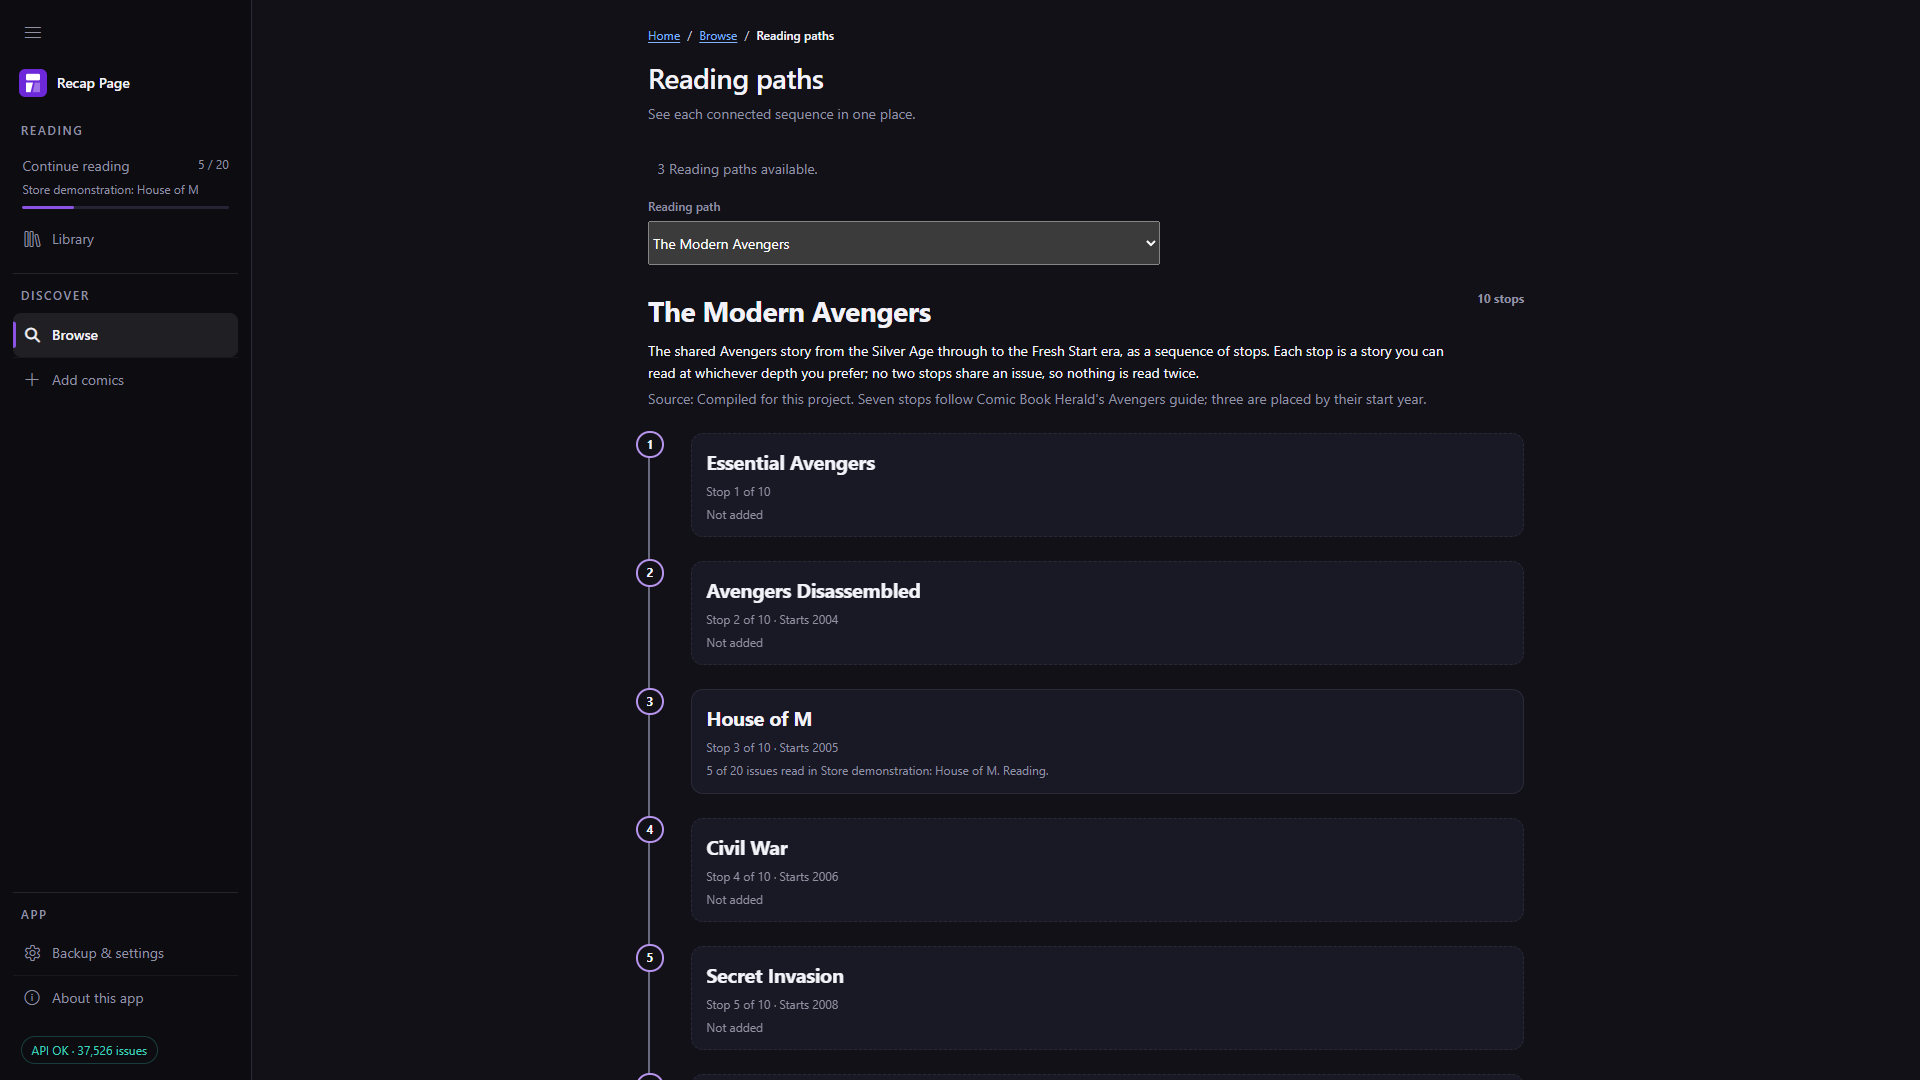
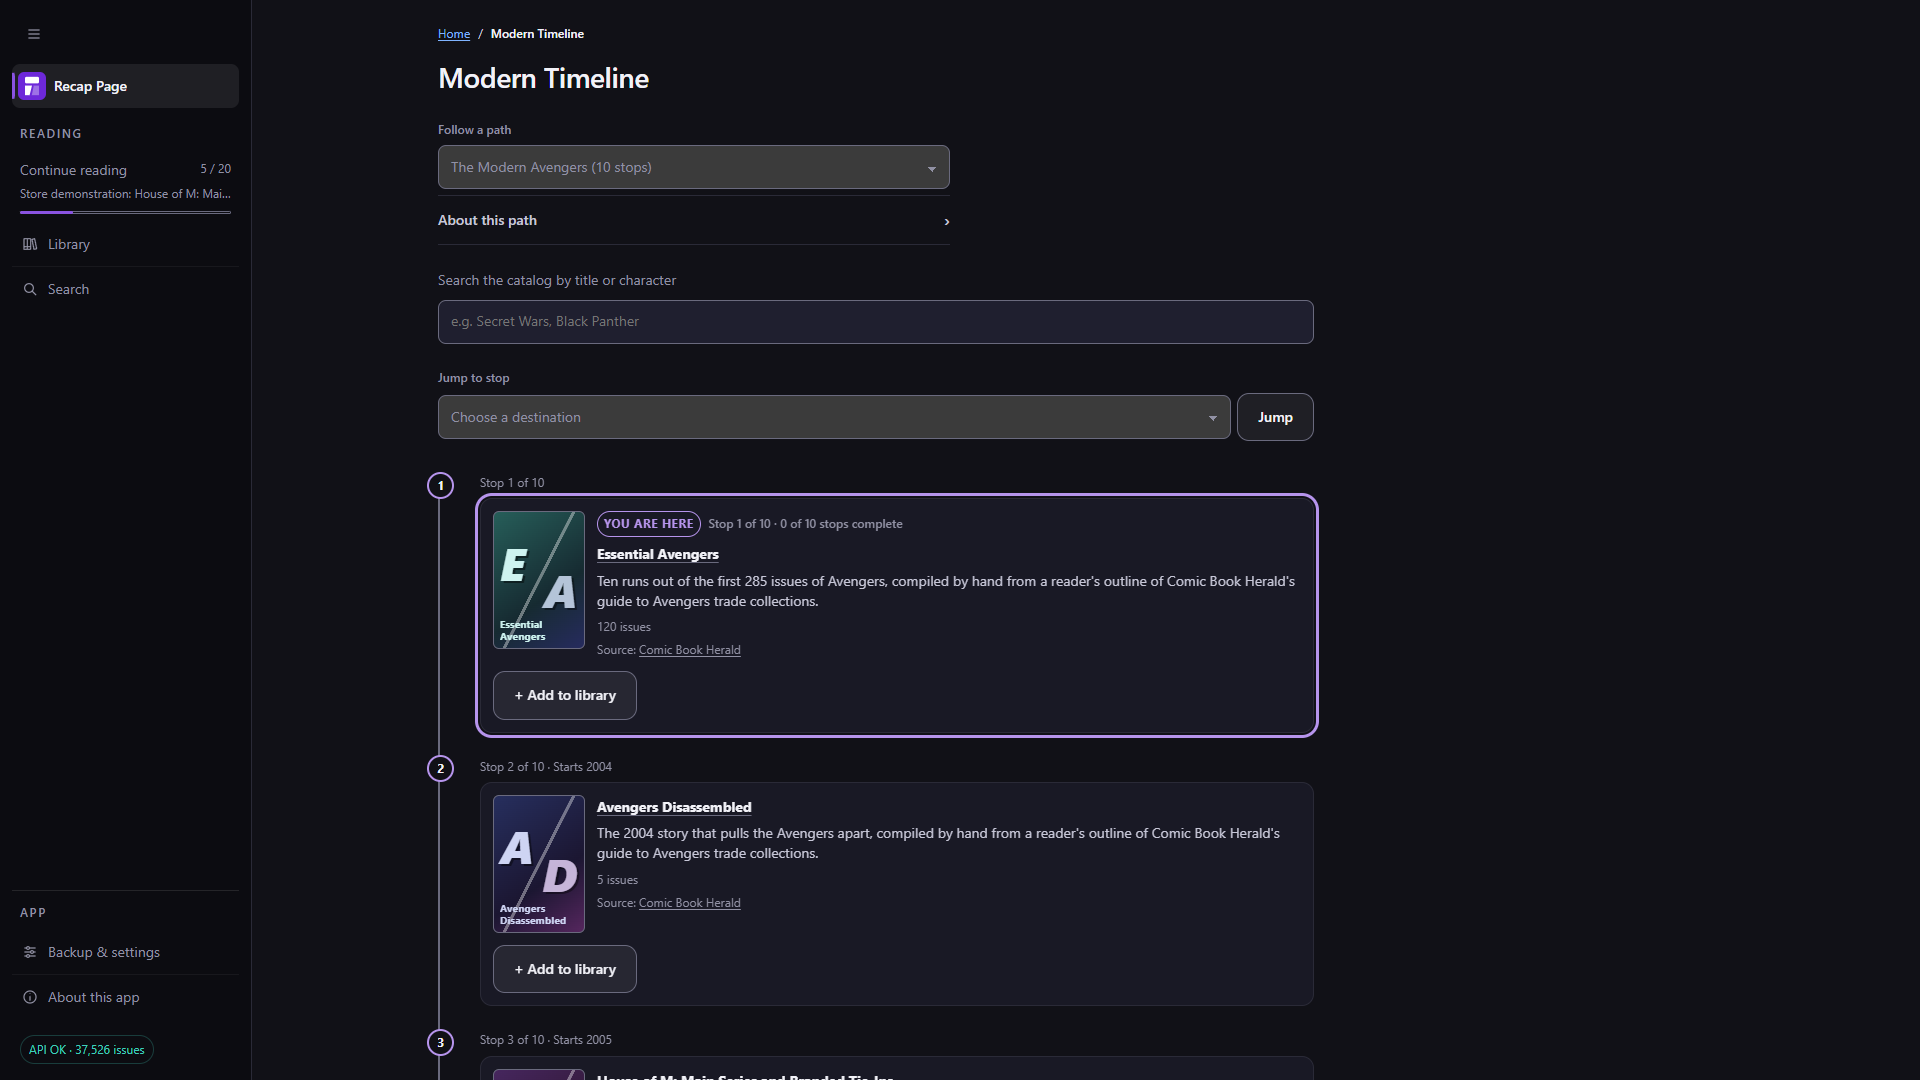
Refresh the Store listing for Search, Home's category cards and Done (#911)
The Store packet still described the app as it was before #907, #913 and #922. Browse is no
longer a page, Add comics is named Search, Reading Paths are followed on Modern Timeline, Home's
last category card is Young readers, and the reading screen's button has said Done since the
owner's choice on 2026-10-07. The listing, its screenshots and the certification notes sent a
Microsoft tester to pages that are gone.

All five screenshots are recaptured with npm run store:assets, and the tile comes out byte for byte
the same. 01 shows the first-run Start with Modern Timeline, 02 shows Storylines, which the owner
chose, and 03 shows The Modern Avengers followed on Modern Timeline. Their captions say so. The long
description walks from Home through Modern Timeline and chooses Done, and the feature list keeps
Reading Paths, followed on Modern Timeline. The certification steps send testers from Home to
Modern Timeline to preview House of M, and to Search for Find a series and, under More ways to add,
Browse a creator, which is that control's own label. Each step was walked in Edge on the bundled
indexes with no request leaving the machine. The notes are re-dated, as they ask.

The packet's boundary sentence said everything above Future Store updates records the first
submission. The listing copy above it had already been rewritten in place twice since the
2026-09-01 authorization, and the check requires the screenshot table to match the committed images
[…]

diff --git a/test/store-submission.test.js b/test/store-submission.test.js
@@ -18,9 +18,13 @@ test('the packet separates the first submission from automated future updates', 
   const first = packet.slice(0, packet.indexOf('## Future Store updates'));
   const future = packet.slice(packet.indexOf('## Future Store updates'));
   const futureOperation = future.slice(future.indexOf('After that first free version'));
+  const boundary = future.slice(0, future.indexOf('After that first free version')).replace(/\s+/g, ' ');
   assert.match(first, /manual publishing hold/);
   assert.match(first, /Do not upload or submit a package that differs/);
   assert.match(first, /Do not publish without a separate explicit direction/);
+  assert.match(boundary, /the certification notes are kept current for the next submission/);
+  assert.match(boundary, /Everything else above it records the first submission/);
+  assert.match(boundary, /preserved at commit `8e4a773d`/);
   assert.match(future, /explicit default-branch dispatch/);
   assert.match(future, /Publishing a GitHub or Android release does not start it/);
   assert.match(future, /protected `microsoft-store-production`\s+environment/);

diff --git a/test/workflow-introduction.test.js b/test/workflow-introduction.test.js
@@ -24,13 +24,8 @@ test('the introduction walks through a real cross-series transition with synthet
     assert.match(copy, /first six comics/);
     assert.ok(copy.includes(guide.items[6].title), `${name} must identify the next unread issue`);
     assert.ok(copy.includes(guide.items[7].title), `${name} must show the cross-series next issue`);
-    // Done is the reading screen's own label (UX-25, #830). The Store listing changes only with a
-    // Store submission, so #911 brings it from "Done, next" to "Done" and makes this one check again.
-    if (name === 'Store listing') assert.match(copy, /Done, next/);
-    else {
-      assert.match(copy, /choose \**Done\**\s*\./, `${name} must name the Done button`);
-      assert.doesNotMatch(copy, /Done, next/, `${name} must use Done's own label`);
-    }
+    assert.match(copy, /choose \**Done\**\s*\./, `${name} must name the Done button`);
+    assert.doesNotMatch(copy, /Done, next/, `${name} must use Done's own label`);
     assert.match(copy, /resume/i);
   }
 });

diff --git a/docs/MICROSOFT_STORE_SUBMISSION.md b/docs/MICROSOFT_STORE_SUBMISSION.md
@@ -159,19 +159,21 @@ It is not a native phone app. No automatic device sync or offline comic reading.
 
 A reading session, using made-up progress rather than someone's reading history:
 
-1. In Browse, add Civil War: Avengers and Aftermath Reading Order, compiled from Comic Book Herald's guide:
+1. On Home, open Modern Timeline and add Civil War: Avengers and Aftermath Reading Order,
+   compiled from Comic Book Herald's guide:
    https://www.comicbookherald.com/where-do-i-start-with-avengers-trade-collections/
 2. Imagine the first six comics are marked read. Civil War (2006) #7 is the next unread issue.
 3. Choose Read. The official reader opens in a separate tab when a link is available. Otherwise the
    new tab looks up the link and falls back to an official issue page, not guaranteed access.
-4. Return to Recap Page and choose Done, next yourself. New Avengers (2004) #21 becomes next;
-   reading is not detected automatically.
+4. Return to Recap Page and choose Done. New Avengers (2004) #21 becomes next; reading is not
+   detected automatically.
 5. Stop here, then reopen this Reading List in the same browser profile to resume at that unread comic.
 
 Read markers are shared for the same issue across overlapping Reading Lists; each list keeps its
-own order. Browse Reading Paths, add private notes, or track custom issues without changing that
-reading loop. Your progress stays in your browser profile. There is no account, advertising,
-analytics, or telemetry. Reading requires your own Marvel Unlimited subscription.
+own order. Follow a Reading Path on Modern Timeline, add private notes, or track custom issues
+without changing that reading loop. Your progress stays in your browser profile. There is no
+account, advertising, analytics, or telemetry. Reading requires your own Marvel Unlimited
+subscription.
 
 Recap Page contains no comic pages. Cover art is optional and loads directly from Marvel image
 hosts. Search and issue details use a community metadata service. An optional manual lookup can open
@@ -186,7 +188,7 @@ or Disney. Marvel names and marks belong to their respective owners.
 ### Feature fields
 
 1. Curated event, era, character, and continuity reading orders
-2. Reading Paths across connected lists
+2. Reading Paths across connected lists, followed on Modern Timeline
 3. Clear next issue and completion progress
 4. Private read markers, notes, availability overrides, and custom entries
 5. JSON backup and restore
@@ -279,7 +281,7 @@ owner-only action and may add certification time.
 
 Paste this after updating the date if submission occurs later:
 
-> Prepared 2026-09-01.
+> Prepared 2026-10-27.
 >
 > Recap Page is a packaged classic desktop app. Launching it starts the bundled
 > architecture-matched official Node runtime as a hidden local server bound only to
@@ -292,9 +294,10 @@ Paste this after updating the date if submission occurs later:
 > 1. Launch Recap Page from Start.
 > 2. Confirm the default browser opens `http://127.0.0.1:8787/`. A successful launch does not leave
 >    a console open.
-> 3. Open Browse and preview House of M.
-> 4. Under Add comics, find creator Jonathan Hickman and series House of M. These searches use
->    indexes bundled inside the package.
+> 3. On Home, open Modern Timeline, search for House of M, and select its title to preview it.
+> 4. Under Search, use Find a series to find House of M, then open More ways to add and use
+>    Browse a creator to find Jonathan Hickman. These searches use indexes bundled inside the
+>    package.
 > 5. Add a curated Reading List, mark an issue read, and optionally add a note.
 > 6. Close the browser and launch Recap Page again. The same browser profile retains that state.
 > 7. The Read action opens Marvel Unlimited when a direct reader link is known, or the official
@@ -340,9 +343,9 @@ path, email, or account data entered the captures.
 
 | File | Caption for Partner Center |
 |---|---|
-| `01-home-discovery.png` | Home presents clear ways to browse curated Reading Lists and connected Reading Paths. |
-| `02-browse-reading-lists.png` | Browse organizes Reading Lists by timeline, story, character, and other guided routes. |
-| `03-reading-paths.png` | Reading Paths show connected stories in sequence and carry sample progress from matching saved lists. |
+| `01-home-discovery.png` | Home offers a first step on Modern Timeline and category cards for Storylines, Character spotlights, Young readers, and more. |
+| `02-browse-reading-lists.png` | Storylines, reached from Home's category cards, lists story-arc Reading Lists with filters, era groups, and source credits. |
+| `03-reading-paths.png` | Modern Timeline follows a Reading Path stop by stop and marks where you are. |
 | `04-reading-progress.png` | A demonstration Reading List keeps the next issue, issue order, and local completion progress together. |
 | `05-about-privacy.png` | About explains local storage, direct network requests, source credits, and the unofficial-project boundary. |
 | `store-tile-300.png` | Exact 300 x 300 Store tile derived from the existing purple panels app icon. |
@@ -355,11 +358,11 @@ Reviewed asset measurements:
 
 | File | Dimensions | Bytes | SHA-256 |
 |---|---:|---:|---|
[11 lines of base64/hex data omitted]
 
 Omit trailers, 16:9 Super hero art, game poster art, box art, Xbox art, and Holographic art. The
@@ -419,9 +422,13 @@ unofficial, no-comics, and own-subscription disclosures are present.
 
 ## Future Store updates
 
-Everything above this heading records the first submission. Its package version, reviewed hash,
-manual upload, certification submission, and manual publishing hold remain the factual first-release
-procedure. They do not authorize or describe a later update.
+Above this heading, the listing's descriptions and feature fields, the screenshots and their
+captions, and the certification notes are kept current for the next submission. Everything else
+above it records the first submission. Its package version, reviewed hash, manual upload,
+certification submission, and manual publishing hold remain the factual first-release procedure.
+They do not authorize or describe a later update. The packet as it stood on 2026-09-01, when the
+owner authorized the replacement submission, is preserved at commit `8e4a773d`, copy and
+screenshots included.
 
 After that first free version is live, an explicit default-branch dispatch may start the separate
 Microsoft Store release workflow. Publishing a GitHub or Android release does not start it.

diff --git a/docs/MICROSOFT_STORE.md b/docs/MICROSOFT_STORE.md
@@ -327,10 +327,10 @@ $env:MRT_PUPPETEER='C:\path\to\scratch\node_modules\puppeteer-core\lib\puppeteer
 The functionality scenario starts the package twice across the pre-ready window, requires one
 settled server, proves a later warm activation reuses it, and observes the native GUI, coordinator,
 verifier, server and browser-command lifecycle. It fetches and parses the creator index, series index, catalog, and House
-of M payload, exercises Browse and both name searches in Edge, distinguishes an external metadata
-failure, removes uncached local payloads, stops the server, verifies direct recovery guidance, and
-relaunches it. It then removes the package while the server is live and requires Windows to end the
-exact process and release port 8787 before fallback cleanup.
+of M payload, previews and adds House of M from Modern Timeline, exercises both name searches in
+Edge, distinguishes an external metadata failure, removes uncached local payloads, stops the server,
+verifies direct recovery guidance, and relaunches it. It then removes the package while the server
+is live and requires Windows to end the exact process and release port 8787 before fallback cleanup.
 
 Each scenario owns its package installation and refuses to run when that package identity is already
 registered. The functionality scenario first asks Windows to remove the package while its background
